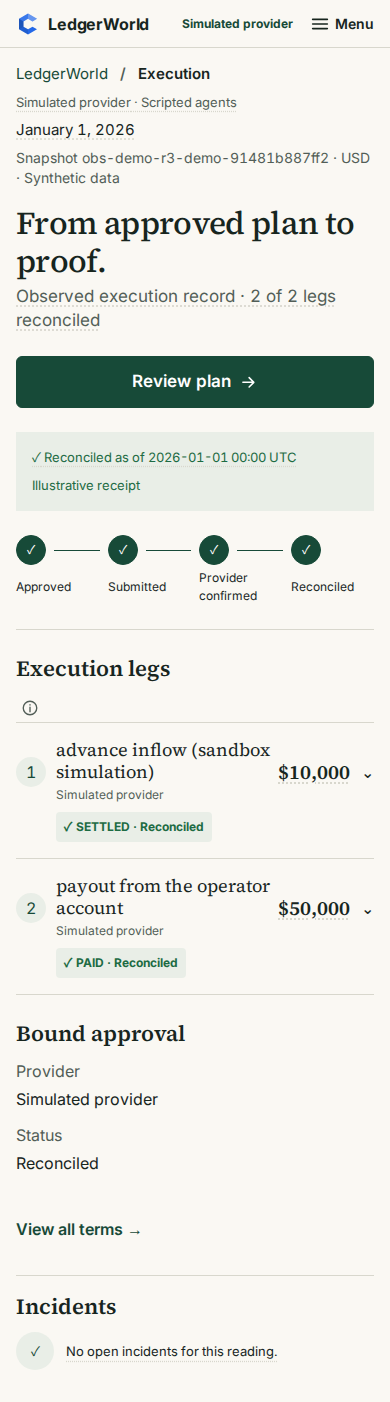
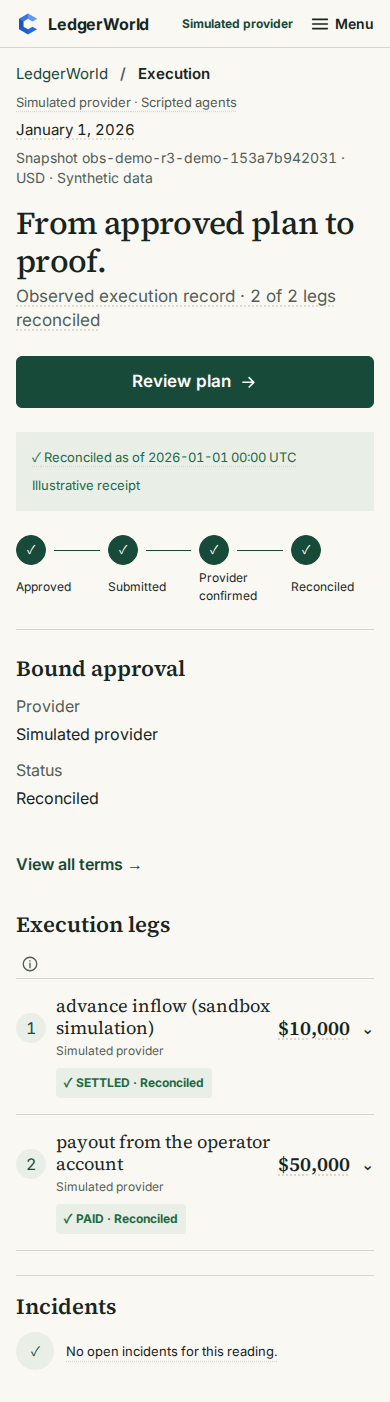
(board item 169) Phone and tablet Execution read the approval summary before the legs
Below 1200 px the .lw-exec grid areas were "legs" "terms" "incidents", which
put Execution legs above Bound approval against the responsive handoff, and
match-execution.spec.ts asserted that reversed order. The compact grid now
reads terms -> legs -> incidents; desktop keeps legs left, terms and
incidents right. The spec checks the full panel order at every width, before
and after a leg expands (red at 834 and 390 px on the old CSS).

diff --git a/e2e/ux/match-execution.spec.ts b/e2e/ux/match-execution.spec.ts
@@ -34,6 +34,19 @@ async function controls (page: Page) {
   expect(await sideways(page)).toBeLessThanOrEqual(0)
 }
 
+/** Desktop: legs left, terms and incidents right. Below 1200 px: terms, then legs, then incidents. */
+async function panels (page: Page) {
+  const legs = (await $(page, 'receipts').boundingBox())!, terms = (await $(page, 'summary').boundingBox())!
+  const incidents = (await page.locator('section[aria-labelledby="incidents-heading"]').boundingBox())!
+  if (page.viewportSize()!.width >= 1200) {
+    expect(terms.x).toBeGreaterThanOrEqual(legs.x + legs.width)
+    expect(incidents.y).toBeGreaterThanOrEqual(terms.y + terms.height)
+  } else {
+    expect(legs.y).toBeGreaterThanOrEqual(terms.y + terms.height)
+    expect(incidents.y).toBeGreaterThanOrEqual(legs.y + legs.height)
+  }
+}
+
 // Real read path: values must match the offline app, not the illustrative amounts in the picture.
 test('Execution matches mockup 06', async ({ page, request, baseURL }, info) => {
   const writes = await readOnly(page, baseURL!)
@@ -64,9 +77,7 @@ test('Execution matches mockup 06', async ({ page, request, baseURL }, info) => 
       await expect(rows.nth(i).locator('[data-test="receipt-amount"]')).toHaveText(amount)
     }
   }
-  const left = (await $(page, 'receipts').boundingBox())!, right = (await $(page, 'summary').boundingBox())!
-  if (page.viewportSize()!.width >= 1200) expect(right.x).toBeGreaterThanOrEqual(left.x + left.width)
-  else expect(right.y).toBeGreaterThanOrEqual(left.y + left.height)
+  await panels(page)
   const counts: Record<string, number> = {}
   for (const theme of ['light', 'dark'] as const) {
     await page.emulateMedia({ colorScheme: theme })
@@ -83,6 +94,7 @@ test('Execution matches mockup 06', async ({ page, request, baseURL }, info) => 
   await expect(rows.first()).not.toHaveAttribute('open', '')
   await rows.first().locator('.lw-leg__chevron').click()
   await expect(rows.first().locator('.lw-leg__detail')).toBeVisible()
+  await panels(page) // an expanded leg grows the legs panel, never past its neighbours
   for (const term of ['Request id', 'Provider id', 'Journal']) {
     await expect(rows.first().getByRole('button', { name: `Copy ${term}`, exact: true })).toBeVisible()
   }

diff --git a/frontend/src/views/Execution.vue b/frontend/src/views/Execution.vue
@@ -1288,7 +1288,7 @@ watch(stage, async () => {
   display: grid;
   gap: var(--lw-space-6);
   grid-template-columns: minmax(0, 1fr);
-  grid-template-areas: "legs" "terms" "incidents";
+  grid-template-areas: "terms" "legs" "incidents";
   margin-top: var(--lw-space-6);
 }
 .lw-exec__terms { grid-area: terms; }

diff --git a/prp/2026-10-30-match-execution/ux-sweep.md b/prp/2026-10-30-match-execution/ux-sweep.md
@@ -25,6 +25,7 @@ All heavy checks were run through the shared heavy-command queue. The full `chec
 | Check | Desktop | Tablet | Phone |
 |---|---|---|---|
 | Page grid, banner, aggregate tracker and receipt rows | Pass | Pass | Pass |
+| Panel order: legs left, terms and incidents right (desktop); terms → legs → incidents (tablet, phone), a leg expanded included | Pass | Pass | Pass |
 | Approval stage columns / phone active stage | Pass | Pass | Pass |
 | Light and dark screenshots | Pass | Pass | Pass |
 | No horizontal page overflow | Pass | Pass | Pass |
@@ -43,6 +44,8 @@ Screenshots are in `ux/`, named by width, state and theme. Closed-page word coun
 - The old judge-path selector treated a new `leg-pill` hook as a leg. The new hook uses the receipt namespace. Existing receipt mouse and keyboard selectors were aligned with the row chevron and its outer summary; the timed four-click path remains intact.
 - Nested tooltips consumed Escape before modal dismissal. The modal listener now captures the key while the dialog is open; a unit regression and the existing browser focus test prove dismissal and focus return.
 - The stricter aggregate status requires a settled leg, reconciliation flag, journal and no open incident. The banner, per-leg steps, hero counts and dialog terminal state now agree.
+
+- Correction (2026-11-03): below 1200 px the grid placed Execution legs above Bound approval, and the test asserted that reversed order. The compact grid now reads terms → legs → incidents, matching the DOM; the test checks that order at 834 and 390 px before and after a leg expands (red on the old CSS at both widths, green after).
 
 ## Stability follow-up
 
